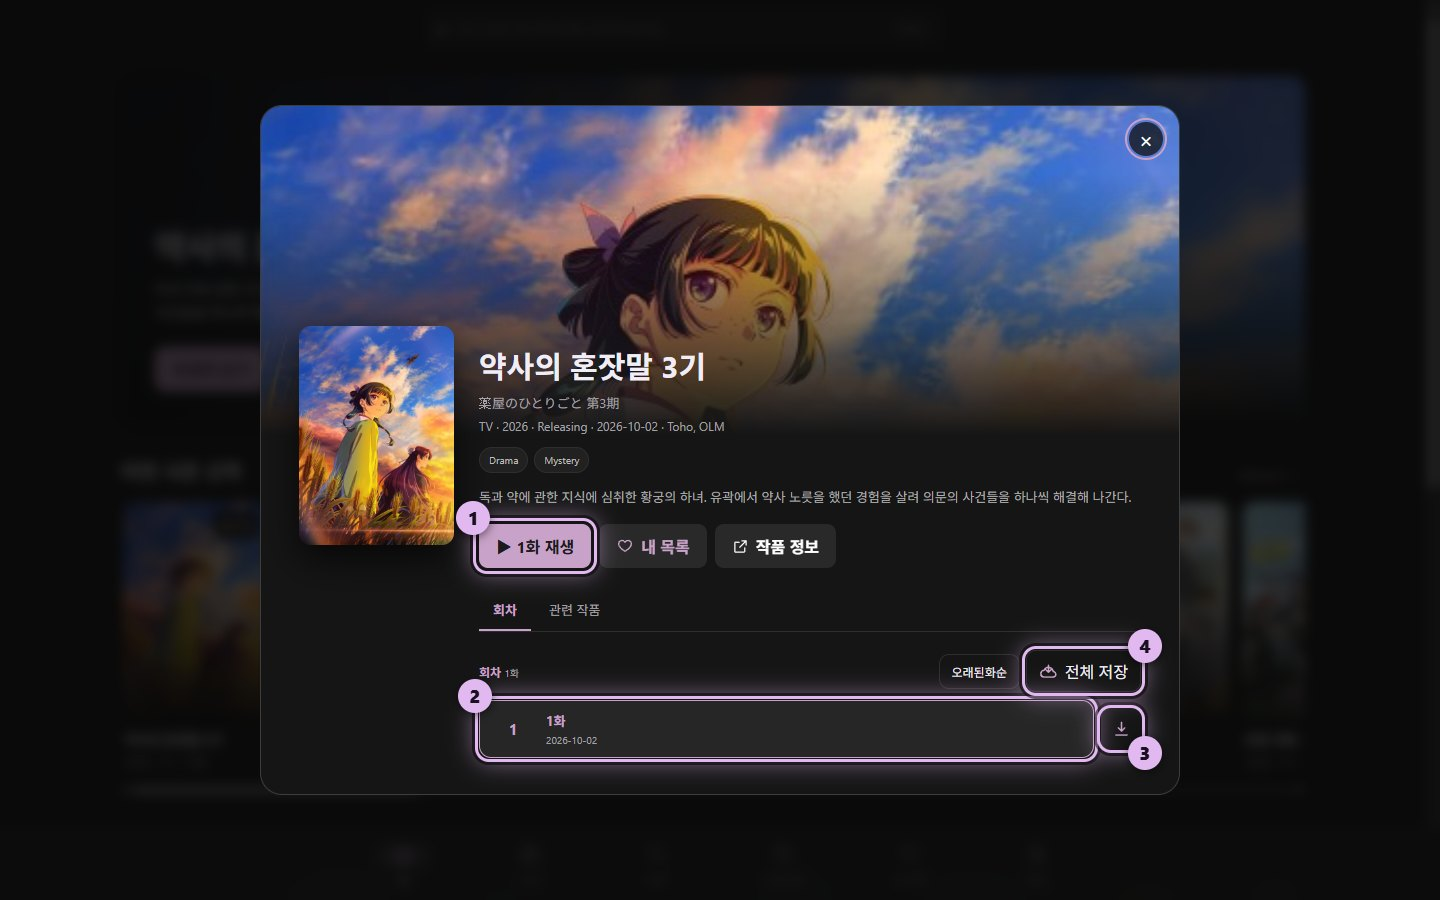
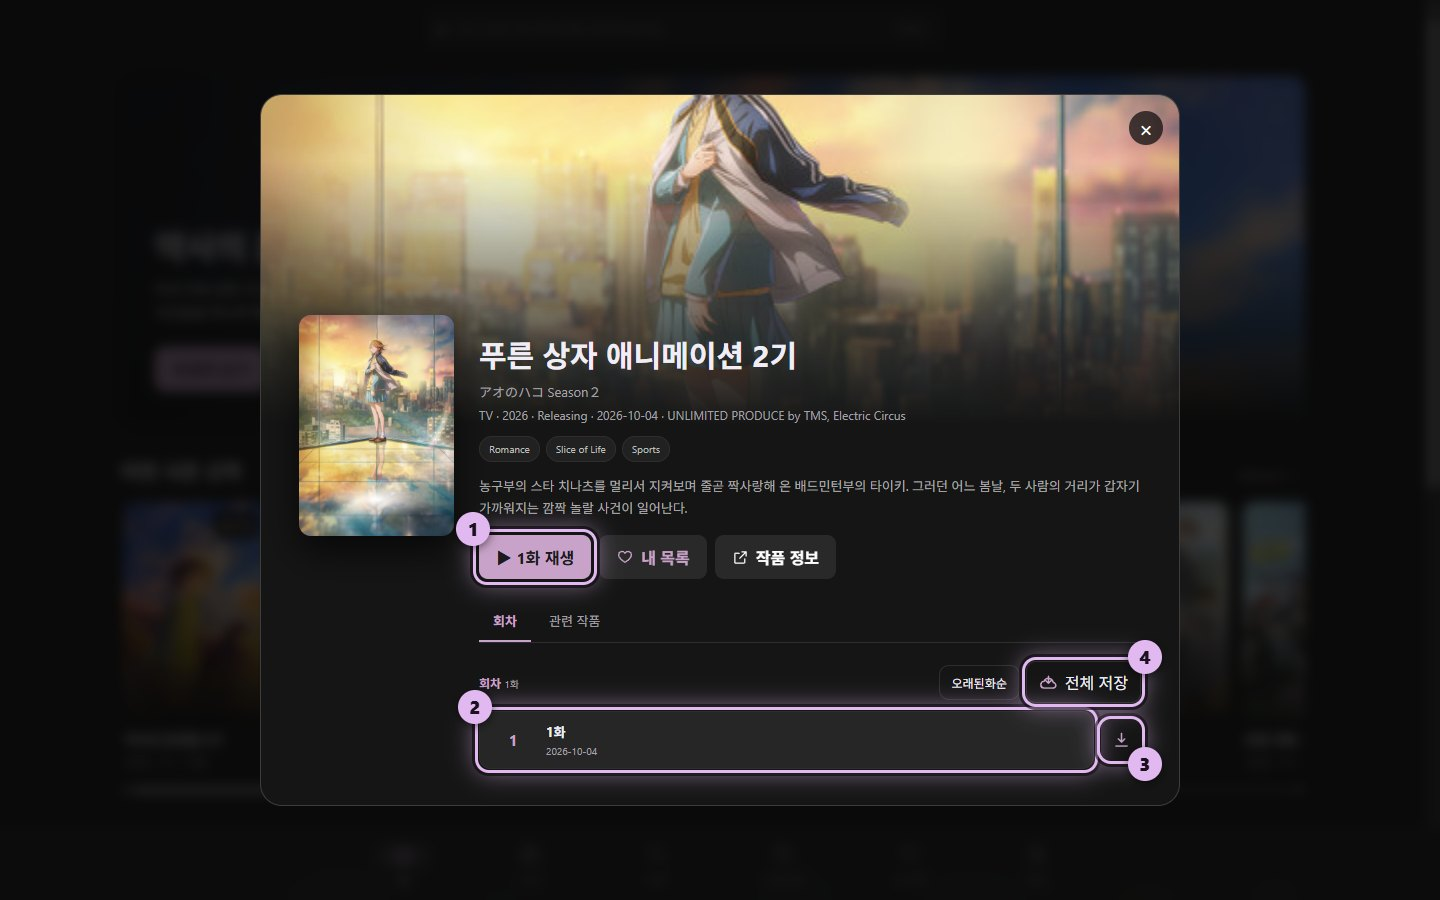
README: 사용법 사진을 푸른 상자 2기 1화로, 플레이어 설정의 자막 · 자막 모양 탭도 번호로

Changed region(s): [[0.1562, 0.0933, 0.8438, 0.7156], [0.3125, 0.6844, 0.8125, 0.8711]]

diff --git a/README.md b/README.md
@@ -72,18 +72,22 @@
 
 ![플레이어 설정 > 자막](docs/screenshots/guide-player-subtitle.jpg)
 
-1. 재생 화면 오른쪽 위의 **플레이어 설정** 버튼을 누르고 **자막** 탭을 엽니다.
-2. **다시 번역:** AI 번역 자막이 어색하면 눌러서 처음부터 새로 번역합니다. 로컬 AI로 번역했다면 번역 API 쪽 버튼으로 바꿔 보면 더 자연스럽습니다.
-3. **자막 가져올 곳:** 다른 회차 자막이 나오면 **AI 번역**을 누르면 이 회차에 맞는 번역 자막으로 바뀝니다. 다른 블로그(Kairan · Csora · Anissia)를 골라 봐도 되고, RE:Anime · Miruro는 영어 · 일본어 트랙도 고를 수 있습니다.
-4. **한국어 자막 다시 찾기** · **내 PC의 자막 파일 열기**(ASS · SSA · SRT · VTT · SMI)
+1. 재생 화면 오른쪽 위의 **플레이어 설정** 버튼을 누릅니다.
+2. **자막** 탭을 엽니다.
+3. **자막 가져올 곳:** 다른 회차 자막이 나오면 **AI 번역**을 누르면 이 회차에 맞는 번역 자막으로 바뀝니다. 다른 블로그(Kairan · Csora · Anissia)를 골라 봐도 됩니다.
+4. **자막 트랙 (RE:Anime · Miruro):** 사이트가 주는 여러 언어 자막입니다. 영어 · 일본어 트랙을 골라 볼 수도 있습니다.
+5. **한국어 자막 다시 찾기** · **내 PC의 자막 파일 열기**(ASS · SSA · SRT · VTT · SMI)
+
+AI 번역 자막이나 영어 · 일본어 자막이 떠 있으면 **자막 표시** 아래에 번역 버튼이 나옵니다. AI 번역 자막이 어색하면 **다시 번역**을 눌러 처음부터 새로 번역합니다. 로컬 AI로 번역했다면 번역 API 쪽 버튼으로 바꿔 보면 더 자연스럽습니다.
 
 ### 자막 크기 · 싱크 · 글꼴
 
 ![플레이어 설정 > 자막 모양](docs/screenshots/guide-player-style.jpg)
 
-1. **자막 크기 · 높이:** 막대를 끌어 바꿉니다.
-2. **자막 타이밍:** 자막이 대사보다 늦으면 **빠르게**, 먼저 나오면 **늦게**를 누릅니다. 보면서 **Z** · **X** 키로 0.5초씩 바꿀 수도 있습니다.
-3. **글꼴:** 내 PC의 글꼴 파일(TTF · OTF)을 고르면 자막이 그 글꼴로 나옵니다. AI 번역 자막도 이 글꼴을 씁니다.
+1. 플레이어 설정에서 **자막 모양** 탭을 엽니다.
+2. **자막 크기 · 높이:** 막대를 끌어 바꿉니다.
+3. **자막 타이밍:** 자막이 대사보다 늦으면 **빠르게**, 먼저 나오면 **늦게**를 누릅니다. 보면서 **Z** · **X** 키로 0.5초씩 바꿀 수도 있습니다.
+4. **글꼴:** 내 PC의 글꼴 파일(TTF · OTF)을 고르면 자막이 그 글꼴로 나옵니다. AI 번역 자막도 이 글꼴을 씁니다.
 
 ### 번역 시작하기
 
